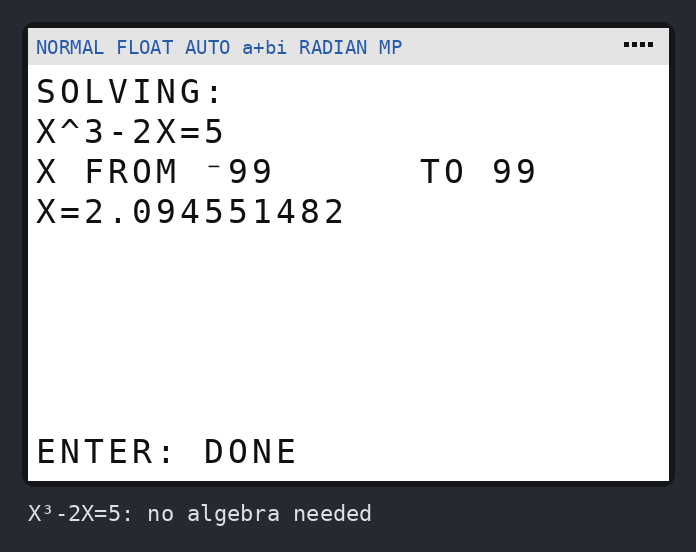
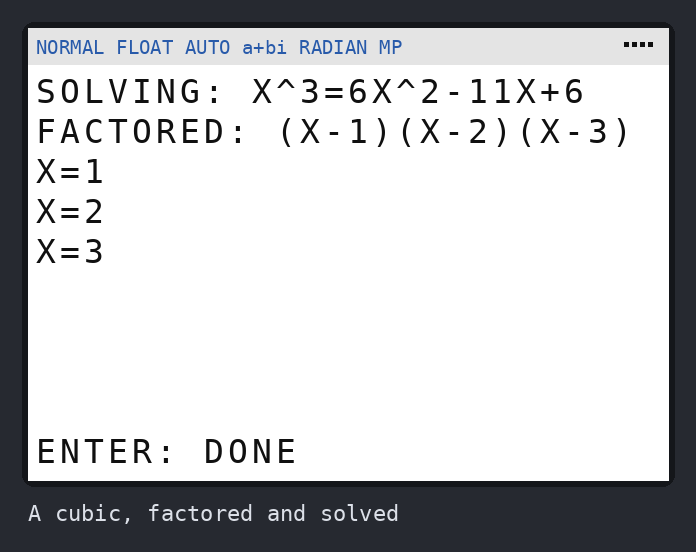
Brainiac 0.2: new screenshots and README
Claude-Session: https://claude.ai/code/session_01TAL8UPBif8sQwKba6jvyM3

diff --git a/brainiac/shots.py b/brainiac/shots.py
@@ -13,18 +13,22 @@ OUT = Path(__file__).resolve().parent / "screenshots"
 # (file name, caption, answers to give, in order)
 TOURS = [
     ("01-menu", "Main menu", []),
-    ("02-solve-prompt", "Solve for X: type an equation", ["1"]),
-    ("03-solve-quadratic", "X²=5X-6 has two answers", ["1", "X²=5X-6"]),
-    ("04-solve-cubic", "X³-2X=5: no algebra needed", ["1", "X^3-2X=5"]),
-    ("05-zeros-prompt", "Find all zeros: function, then range", ["2", "X^3-4X", "-3"]),
-    ("06-zeros-cubic", "Every zero of X³-4X", ["2", "X^3-4X", "", ""]),
-    ("07-zeros-touch", "(X-2)²(X+1): crosses at -1, touches at 2", ["2", "(X-2)^2(X+1)", "", ""]),
-    ("08-zeros-sine", "sin(X) from -20 to 20: page 1 of 3", ["2", "sin(X)", "-20", "20"]),
-    ("09-zeros-sine-p2", "...press ENTER for the next page", ["2", "sin(X)", "-20", "20", ""]),
-    ("10-no-answers", "1/X never reaches zero (asymptote skipped)", ["2", "1/X", "", ""]),
-    ("11-identity", "X+1=1+X is true for every X", ["1", "X+1=1+X"]),
-    ("12-help", "How to use, page 1", ["3"]),
-    ("13-what-next", "After the answers", ["1", "2X+3=7", ""]),
+    ("02-polynomials-menu", "Polynomials menu", ["3"]),
+    ("03-solve-complex", "X²+5X+20=0: exact complex roots", ["1", "X^2+5X+20=0"]),
+    ("04-solve-cubic", "A cubic, factored and solved", ["1", "X^3=6X^2-11X+6"]),
+    ("05-solve-search", "Not a polynomial: searched -99 to 99", ["1", "e^(X^2)=5"]),
+    ("06-roots-degree5", "Any degree: X⁵+X+1, real and complex", ["3", "1", "X^5+X+1"]),
+    ("07-quadratic-steps-1", "Quadratic step by step, page 1", ["3", "2", "2X^2+3X-5"]),
+    ("08-quadratic-steps-2", "...page 2", ["3", "2", "2X^2+3X-5", ""]),
+    ("09-quadratic-steps-3", "...page 3", ["3", "2", "2X^2+3X-5", "", ""]),
+    ("10-factor", "Factor", ["3", "4", "6X^2+X-2"]),
+    ("11-simplify", "Simplify / expand", ["3", "3", "(A+B)^2-(A-B)^2"]),
+    ("12-divide", "Polynomial division", ["3", "5", "X^3+2X+5", "X^2+1"]),
+    ("13-system", "A 3x3 system", ["4", "2X+3Y-Z=1", "X-Y+2Z=3", "3X+Y+Z=6", ""]),
+    ("14-rearrange-pendulum", "Rearrange T=2π√(L/G) for L", ["5", "T=2pi√(L/G)", "L"]),
+    ("15-rearrange-gas", "Rearrange PV=NRT for T", ["5", "PV=NRT", "T"]),
+    ("16-inverse", "Inverse of (X+1)/(X-2)", ["6", "(X+1)/(X-2)"]),
+    ("17-help", "How to use, page 1", ["7"]),
 ]
 
 

diff --git a/brainiac/README.md b/brainiac/README.md
@@ -1,101 +1,78 @@
 # Brainiac
 
-A math solver for the **TI-84 Plus CE**. Version 0.1 does two things well:
+A math solver for the **TI-84 Plus CE**. Version 0.2:
 
-- **Solve for X**: type any equation in X, such as `2X+3=7`, `X²=5X-6` or
-  `X³-2X=5`, and get every solution. No guess needed.
-- **Find all zeros**: type f(X) and a range, and get every X in that range
-  where f(X)=0. It says which zeros the graph only **touches** (like the 2 in
-  `(X-2)²`) rather than crosses.
+| | |
+|---|---|
+| **Solve for X** | Any equation. Polynomials get exact answers, including fractions, square roots, complex roots and repeated roots, with no range to pick. Anything else (sin, √, ln…) is searched from -99 to 99. |
+| **Find zeros of F(X)** | The same engine, for a function instead of an equation. |
+| **Polynomials** | Roots of any degree (complex too), **quadratic step by step** (discriminant, formula, factored form, vertex form), **simplify/expand**, **factor**, **divide**. |
+| **System of equations** | Up to 6 linear equations, typed the way you'd write them. It says when there's no solution or infinitely many. |
+| **Rearrange a formula** | `A=BH/2` for H gives `H=2A/B`. `T=2π√(L/G)` for L gives `L=GT²/(4π²)`. |
+| **Inverse function** | `(X+1)/(X-2)` gives `F⁻¹(X)=(2X+1)/(X-1)`. |
 
 | | | |
 |---|---|---|
-| ![menu](screenshots/01-menu.png) | ![quadratic](screenshots/03-solve-quadratic.png) | ![touch](screenshots/07-zeros-touch.png) |
+| ![menu](screenshots/01-menu.png) | ![complex](screenshots/03-solve-complex.png) | ![quadratic](screenshots/07-quadratic-steps-1.png) |
+| ![rearrange](screenshots/14-rearrange-pendulum.png) | ![system](screenshots/13-system.png) | ![degree 5](screenshots/06-roots-degree5.png) |
 
-The calculator's own `solve(` gives you one answer near a guess and stops with
-an error if the guess is bad. Brainiac sweeps the whole range, so it finds
-every answer, and it is built to keep going where the built-in tools stop:
-
-- **Asymptotes aren't zeros.** `1/X` and `tan(X)` change sign at their
-  asymptotes, but Brainiac doesn't report those as zeros.
-- **No errors outside the domain.** `√(X)` and `ln(X)` don't stop the
-  program when the search goes below zero; those spots are skipped.
-- **Close roots are found.** `X²-.0001` has zeros at ±0.01, closer together
-  than the search steps, and both are found.
-- **Flat roots come out clean.** `(X-1)³` shows `X=1`, not `1.000000143`.
-- **Identities are spotted.** `X+1=1+X` shows "every X works".
+All the screenshots are in [`screenshots/`](screenshots/).
 
 ## Get it on your calculator
 
 You need **one file**: [`dist/BRAINIAC.8xp`](dist/BRAINIAC.8xp)
 ([direct download](https://github.com/corruptchemist/stuff/raw/claude/brainiac-math-solver-mdgiwt/brainiac/dist/BRAINIAC.8xp)).
 
-**TI Connect CE is the right tool.** It is TI's own free app for Windows and
-Mac, and the most reliable way to load a TI-84 Plus CE:
+**It needs calculator OS 5.2 or newer.** To check, press **[2nd] [+]** (MEM)
+and choose **About**. If your OS is older, TI Connect CE can update it
+for free.
 
 1. Install **TI Connect CE** from [education.ti.com](https://education.ti.com/en/products/computer-software/ti-connect-ce-sw).
-2. Plug the calculator in with its USB cable and turn it on. Use the cable
-   that came with it: some phone cables only charge and can't carry data.
-3. In TI Connect CE, open **Calculator Explorer**. Your calculator shows up
-   in the list.
-4. Drag `BRAINIAC.8xp` onto the calculator, or use the **Send to
-   Calculators** button, then click **Send**.
-5. On the calculator press **[prgm]**, pick **BRAINIAC**, then press
+2. Plug the calculator in with its USB cable and turn it on.
+3. In TI Connect CE, open **Calculator Explorer**. Drag `BRAINIAC.8xp` onto
+   your calculator, or use the **Send to Calculators** button, and click
+   **Send**.
+4. On the calculator press **[prgm]**, pick **BRAINIAC**, then press
    **[enter]** twice.
 
-Optional: in **[2nd] [+] (MEM) → Mem Management → Prgm**, press
-**[enter]** next to BRAINIAC to archive it (a ✱ appears). Archived programs
-survive a RAM reset, and the CE still runs them normally.
-
-The alternative, typing the program in by hand, is about 300 lines where one
-wrong key breaks it. Sending the file is much better. When there's a new
-version, send the new file the same way and let it replace the old one.
+To update to a newer version, send the new file the same way. When it asks,
+choose **Replace**.
 
 ## Using it
 
-**Solve for X:** press **1**, type an equation, press **[enter]**.
+- **Type with capital letters.** X is the **[X,T,θ,n]** key. Other letters
+  are **[alpha]** plus a key.
+- `=` is in **[2nd] [math]** (TEST), item 1.
+- Use the **[(-)]** key for negative numbers, not **[−]**.
+- `(DOUBLE)` after an answer means a repeated root, where the graph touches
+  zero without crossing it.
+- Answers that run past one screen show **ENTER: MORE**.
 
-- `=` is under **[2nd] [math]** (TEST menu), item 1.
-- X is the **[X,T,θ,n]** key, and negative numbers use **[(-)]**, not **[−]**.
-- With no `=`, Brainiac solves `…=0`.
-- It looks at X from -10 to 10 in fine steps, then -99 to 99 in coarser
-  ones. For answers further out, use Find all zeros with your own range.
-- Repeating equations like `sin(X)=.5` have a lot of answers in -99…99 (63
-  of them). For just the ones you need, use Find all zeros with a smaller
-  range, such as 0 to `2π`.
+### What it can't do yet
 
-**Find all zeros:** press **2**, type f(X), then the range. Leave **FROM** and
-**TO** blank for -10 to 10. You can type expressions such as `-2π` or `3π`.
-
-**Results** show 6 per page. Press **[enter]** for more, then choose **AGAIN**,
-**MAIN MENU** or **QUIT**. Each search takes a few seconds; the `=` bar shows
-progress.
+- Rearranging formulas with trig, logs, or a letter in an exponent, like
+  `A=P(1+R)^T` for T. Brainiac says so rather than guessing.
+- Solving for a letter that appears with two different powers, like X and X²
+  in `Y=AX²+BX+C`. Use Solve for X with numbers instead.
+- Formulas with more than 6 different letters.
+- Factoring is over whole numbers and fractions. `X²-2` doesn't factor, but
+  Polynomials > Roots gives `X=±√(2)`.
 
 ### Good to know
 
-- Use **X** as the only letter in your equation. Brainiac uses the other
-  letter variables for its own work.
-- Brainiac uses **Y₀** as scratch space and clears it when you quit. If you
-  had something saved in Y₀, copy it to another Y= slot first.
-- Trig uses your calculator's **Radian/Degree** setting.
-- For cube roots of negative numbers, use **[math] 4: ³√(**. Writing
-  `X^(1/3)` has no real value below zero in the mode Brainiac uses.
+- Brainiac uses matrices **[I]** and **[J]** as scratch space. Anything
+  stored in them gets overwritten.
+- Trig uses your calculator's Radian/Degree setting.
 - If you stop a search with **[on]**, or an error stops the program, the
   calculator is left in `a+bi` mode. Set it back with **[mode] → REAL**.
 - Tests that put the calculator in **Press-to-Test** mode turn off all
   programs, Brainiac included.
-- A typo in an equation stops with `ERR:SYNTAX`. Choose **1: Quit** and try
-  again.
-- A function that passes 10⁶⁰ (like `e^(X²)` beyond X≈12) isn't searched
-  any further in that direction. This keeps the calculator away from
-  ERR:OVERFLOW.
 
 ## Try it without the calculator
 
-`brainiac/` also has a TI-BASIC simulator. It runs the same file the
-calculator gets, on a pretend 26×10 home screen, so you can try Brainiac (or
-an edit to it) on a PC. On Windows, double-click **`brainiac-play.bat`** in
-the repo folder. Anywhere else:
+`brainiac/` has a TI-BASIC simulator. It runs the same file the calculator
+gets, on a pretend 26×10 screen. On Windows, double-click
+**`brainiac-play.bat`**. Anywhere else:
 
 ```bash
 pip install -r brainiac/requirements.txt
@@ -105,42 +82,64 @@ python -m brainiac.play --png out  # ...and save a picture of every screen
 
 Type like you would on a computer: `x^2-4=0`, `sqrt(x)`, `pi`, `-5`.
 
+## How it works
+
+**Polynomials, exactly.** Brainiac works an expression out at 16 points on
+a circle in the complex plane and runs a Fourier transform on those values.
+That gives the polynomial's coefficients, and they snap to exact fractions
+(and multiples of π). Two far-out check points catch anything that only
+looks like a polynomial up close, like `sin(X)`, `√(X)` or `1/(X-3)`.
+
+With several letters it does the same per letter on a small grid. That's how
+`PV=NRT` becomes the numbers it needs to solve for T. Letters on the bottom,
+like `V/I` or `1/F`, are handled by multiplying through first.
+
+From the coefficients:
+
+- **Roots and factoring.** It finds every fraction root P/Q and checks each
+  one exactly, using whole-number arithmetic. It divides those out, then
+  tries to split what's left into whole-number quadratics. Quadratics get
+  exact square-root forms. Anything still left gets decimal roots from the
+  Durand–Kerner method, which finds all complex roots at once.
+- **Rearranging.** Once the formula is a polynomial, solving for a letter
+  that appears with one power is just "everything else over its
+  coefficient". After that come the tidying steps a person would do: clear
+  fractions, cancel common factors, take squares out of square roots.
+
+**Everything else, numerically.** It evaluates all 201 points of a sweep as
+one list operation, then halves each sign change down to about 11 digits.
+It runs in `a+bi` mode, so `√` of a negative gives a complex number, which
+it skips, instead of an error. Asymptotes like `1/X` at 0 end on a huge
+value and get dropped. Dips that only touch zero are found by narrowing in
+on the lowest point. The sweep works out from the middle and stops on a side
+before values get big enough to cause ERR:OVERFLOW.
+
 ## Working on it
 
 | File | What it is |
 |---|---|
-| `src/BRAINIAC.txt` | The program, as TI-BASIC text. `//` lines are notes. |
-| `build.py` | `python -m brainiac.build` turns the source into `dist/BRAINIAC.8xp`, using the [TI-Toolkit](https://github.com/TI-Toolkit/tivars_lib_py) token tables |
+| `src/BRAINIAC.txt` | The program: TI-BASIC with `//` notes, `@labels` and `#sub`/`#call` macros |
+| `build.py` | `python -m brainiac.build` expands the macros, checks the code, and writes `dist/BRAINIAC.8xp` |
 | `tibasic.py` | The simulator: a TI-BASIC interpreter covering what Brainiac uses |
 | `play.py` / `screen.py` | Play in the terminal; draw screens as PNGs |
 | `shots.py` | `python -m brainiac.shots` regenerates `screenshots/` |
-| `../tests/test_brainiac.py` | `python -m pytest tests/test_brainiac.py` |
+| `../tests/test_brainiac.py` | `python -m pytest tests/test_brainiac.py` (133 tests) |
 
-After editing the source, run `python -m brainiac.build`. A test checks that
-`dist/BRAINIAC.8xp` matches the source, so a stale file can't slip through.
+The build refuses two kinds of mistake that would only show up on the
+calculator:
+
+- **A `Goto`, `Menu(` or `#call` inside an If-Then or loop.** The calculator
+  never closes a block it jumps out of, so each such jump leaks memory until
+  ERR:MEMORY.
+- **A list name followed by a bracket meant as multiplication.** `ʟBY(2πS)`
+  means "item 2πS of list BY", not BY times 2πS.
 
 The simulator copies the calculator's habits that usually break TI-BASIC
-programs: ERR:NONREAL ANS, ERR:DIVIDE BY 0 and ERR:OVERFLOW stop the program
-just as they would on the calculator. It also counts the memory leak that
-happens when a `Goto` jumps out of an `If-Then` or loop, and the tests require
-that count to stay at zero.
+programs:
 
-### How the zero finder works
+- the same errors (NONREAL ANS, DIVIDE BY 0, OVERFLOW, DOMAIN…);
+- 14-digit decimal arithmetic;
+- an `and` that checks both sides before deciding;
+- a count of any jump out of a block.
 
-1. **Sweep.** It evaluates f at 201 points across the range, working
-   outward from the middle. The points are offset slightly from round
-   numbers so that 1/X never lands exactly on X=0. It runs in `a+bi` mode,
-   so √ of a negative gives a complex number, which it skips, instead of
-   stopping the program. If |f| passes 10⁶⁰, it stops going in that
-   direction, before ERR:OVERFLOW can happen.
-2. **Crossings.** Neighbouring points with opposite signs trap a zero.
-3. **Touches and close pairs.** Where |f| dips toward zero without changing
-   sign, a parabola through the three points estimates how low the dip goes.
-   If it might reach zero, that stretch is rescanned 24× finer to find
-   crossings. If there are none, it narrows in on the lowest point and keeps
-   it if f really is 0 there. That point is a **touch**.
-4. **Narrowing.** Each trapped zero is halved down to about 12 digits. If f is
-   huge where it ends up, the sign change was an asymptote, so it's dropped.
-5. **Tidying.** Answers are sorted and duplicates are removed. Each answer
-   becomes its shortest rounding (2, then 2.1, then 2.14…) that fits the
-   equation at least as well as the raw answer.
+Tests require that count to stay at zero.
